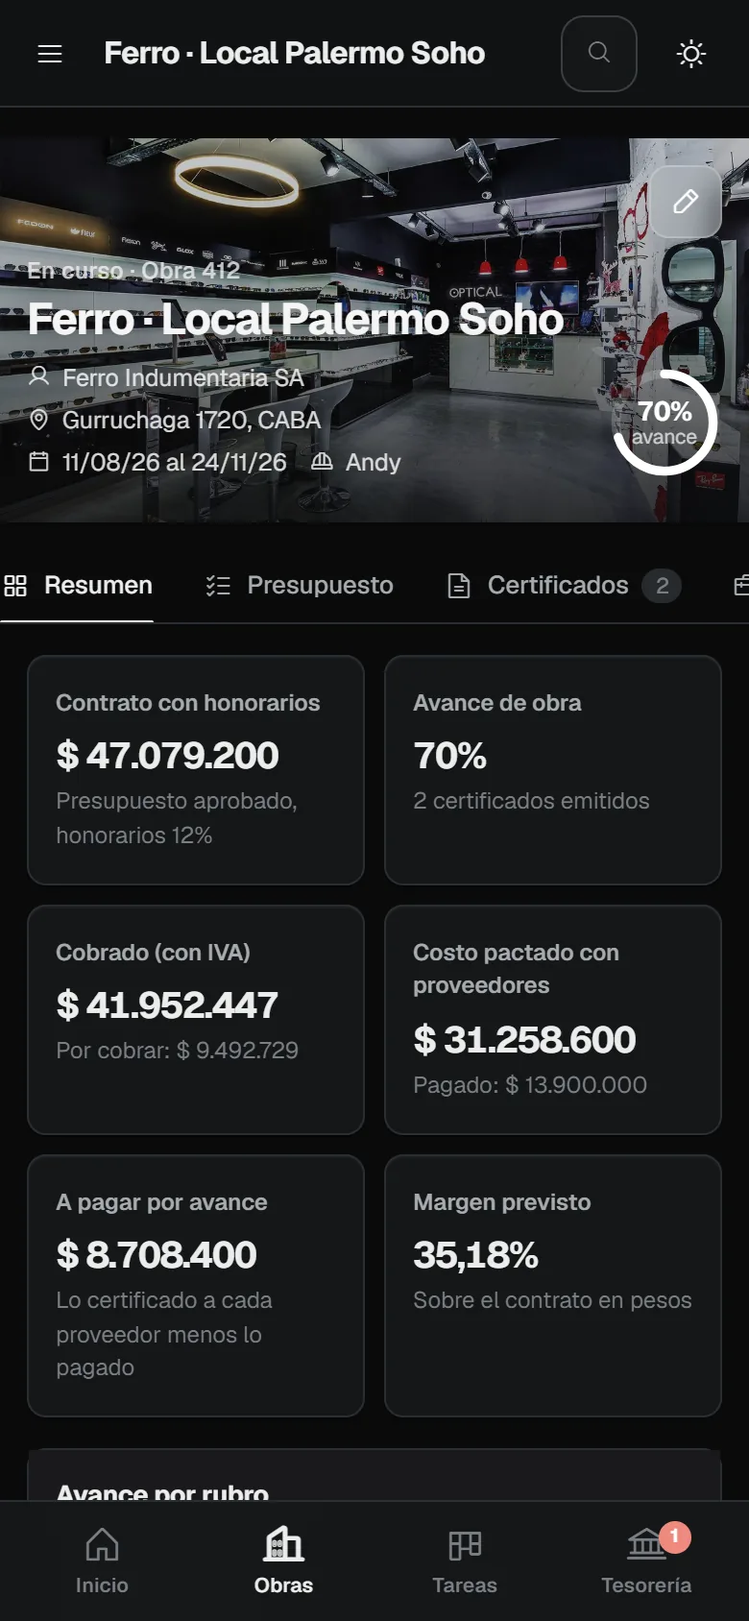
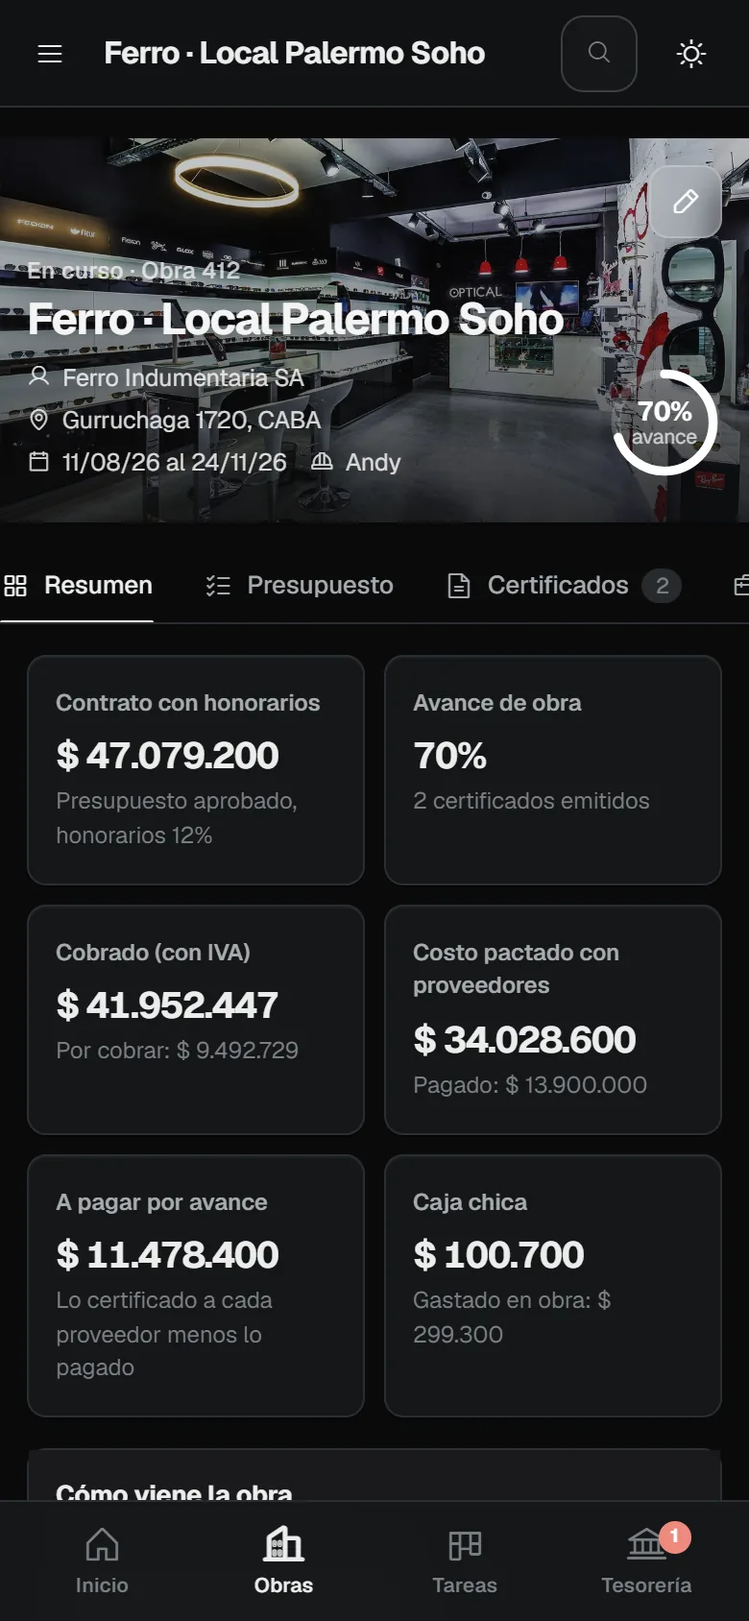
Momo: como viene la obra, ficha y costos por proveedor, y lo que falta definir con el cliente

diff --git a/clientes/momo-arq/sistema-8zco4e/app.js b/clientes/momo-arq/sistema-8zco4e/app.js
@@ -28,14 +28,14 @@
   const esMovil = () => window.matchMedia('(max-width: 640px)').matches;
 
   /* ================= base ================= */
-  const KEY = 'momo-argos-maqueta-v3';
+  const KEY = 'momo-argos-maqueta-v4';
   let DB;
   function normalizar(db) {
     db.config.baseCAC = db.config.baseCAC || '2026-03';
     db.certificados.forEach((c) => { if (!c.estado) c.estado = 'emitido'; c.ed = (c.ed || []).map((e) => Object.assign({ mo: 0, mat: e.precio || 0 }, e)); });
     db.presupuestos.forEach((p) => p.items.forEach((i) => { if (i.iibb == null) i.iibb = 0; if (i.interno == null) i.interno = i.costo ? r2((i.venta / i.costo - 1) * 100) : 0; }));
     ['clientes', 'proveedores'].forEach((k) => db[k].forEach((x) => { if (x.archivado == null) x.archivado = false; }));
-    db.facturasCompra = db.facturasCompra || []; db.notasCredito = db.notasCredito || []; db.arcaRecibidos = db.arcaRecibidos || []; db.padron = db.padron || {}; db.cuentas = db.cuentas || [];
+    db.facturasCompra = db.facturasCompra || []; db.notasCredito = db.notasCredito || []; db.arcaRecibidos = db.arcaRecibidos || []; db.padron = db.padron || {}; db.cuentas = db.cuentas || []; db.costosObra = db.costosObra || []; db.aDefinir = db.aDefinir || [];
     const fe = [];
     db.obras.forEach((o) => { if (o.anticipo && o.anticipo.fecha && o.anticipo.comp && o.anticipo.comp !== 'sin' && !o.anticipo.fe) fe.push({ f: o.anticipo.fecha, l: o.anticipo.comp, set: (x) => { o.anticipo.fe = x; } }); });
     db.certificados.forEach((c) => { if (c.estado === 'emitido' && c.comp && c.comp !== 'sin' && !c.fe) fe.push({ f: c.fecha, l: c.comp, set: (x) => { c.fe = x; } }); });
@@ -347,7 +347,7 @@
       cifras += cifra('Cobrado (con IVA)', esc(doble(r.cobrado)), 'Por cobrar: ' + doble(r.porCobrar)) +
         cifra('Costo pactado con proveedores', esc(doble(r.pactado)), 'Pagado: ' + doble(r.pagado)) +
         cifra('A pagar por avance', esc(doble(r.aPagar)), 'Lo certificado a cada proveedor menos lo pagado');
-      cifras += puede('margen') ? cifra('Margen previsto', pct(r.margen.ARS), 'Sobre el contrato en pesos' + (r.pres.USD.total ? ' · USD ' + pct(r.margen.USD) : '')) : cifra('Caja chica', esc(fmt(r.cajaSaldo)), 'Gastado en obra: ' + fmt(r.caja));
+      cifras += cifra('Caja chica', esc(fmt(r.cajaSaldo)), 'Gastado en obra: ' + fmt(r.caja));
     } else {
       cifras += cifra('Caja chica', esc(fmt(r.cajaSaldo)), 'Gastado en obra: ' + fmt(r.caja));
     }
@@ -364,7 +364,22 @@
     const nTareas = DB.tareas.filter((t) => t.obra === o.id && t.col !== 'hecha').length;
     if (nTareas) pasos.push(['kanban', nTareas + (nTareas === 1 ? ' tarea abierta' : ' tareas abiertas') + ' de esta obra', '#/tareas', o.id]);
     const pasosHtml = pasos.length ? '<ul class="alertas">' + pasos.map((x) => '<li><span class="ic">' + ic(x[0]) + '</span><div class="t">' + esc(x[1]) + '</div><a class="btn sm" href="' + x[2] + '"' + (x[3] ? ' data-accion="tareas-obra" data-obra="' + x[3] + '"' : '') + '>Ir</a></li>').join('') + '</ul>' : vacio('check-circle', 'Obra al día.');
-    return '<div class="resumen-grid">' + cifras + '</div><div class="grilla-2"><div class="card"><div class="card-h"><h2>Avance por rubro</h2><span class="sub">Ponderado por el precio de cada ítem</span></div><div class="sp"></div>' + rubHtml + '</div><div class="pila"><div class="card"><div class="card-h"><h2>Próximos pasos</h2></div><div class="card-b">' + pasosHtml + '</div></div><div class="card"><div class="card-h"><h2>Actividad de la obra</h2></div><div class="card-b">' + (act ? '<ul class="actividad">' + act + '</ul>' : vacio('clock', 'Sin actividad todavía.')) + '</div></div></div></div>';
+    return '<div class="resumen-grid">' + cifras + '</div>' + cardBalance(o) + '<div class="grilla-2"><div class="card"><div class="card-h"><h2>Avance por rubro</h2><span class="sub">Ponderado por el precio de cada ítem</span></div><div class="sp"></div>' + rubHtml + '</div><div class="pila"><div class="card"><div class="card-h"><h2>Próximos pasos</h2></div><div class="card-b">' + pasosHtml + '</div></div><div class="card"><div class="card-h"><h2>Actividad de la obra</h2></div><div class="card-b">' + (act ? '<ul class="actividad">' + act + '</ul>' : vacio('clock', 'Sin actividad todavía.')) + '</div></div></div></div>';
+  }
+
+  /* lo que en la planilla hay que cruzar a mano: lo previsto contra lo que pasó */
+  function cardBalance(o) {
+    if (!puede('margen')) return '';
+    const b = M.balance(o.id, puede('sin')); if (!b) return '';
+    const dif = (x) => { const r = Math.round(x); return r === 0 ? '<span class="tenue">Igual</span>' : (r > 0 ? '+' : '-') + fmt(Math.abs(r)); };
+    const fila = (t, s, p, h, fuerte) => '<tr' + (fuerte ? ' class="fila-total"' : '') + '><td><b>' + esc(t) + '</b><span class="sec">' + esc(s) + '</span></td><td class="num">' + fmt(p) + '</td><td class="num"><b>' + fmt(h) + '</b></td><td class="num">' + dif(h - p) + '</td></tr>';
+    const ind = (l, v, s) => '<div class="bal-dato"><span>' + esc(l) + '</span><b>' + esc(v) + '</b><small>' + esc(s) + '</small></div>';
+    return '<div class="card balance"><div class="card-h"><h2>Cómo viene la obra</h2><span class="sub">Solo socios. Lo previsto al aprobar contra lo que pasó hasta hoy, en pesos</span></div>' +
+      '<div class="tabla-wrap"><table><thead><tr><th>Concepto</th><th class="num">Previsto</th><th class="num">Hoy</th><th class="num">Diferencia</th></tr></thead><tbody>' +
+      fila('Lo que se le cobra al cliente', 'Contrato con honorarios, más demasías, economías y ajuste CAC', b.ventaPrev, b.ventaHoy) +
+      fila('Lo que cuesta la obra', 'Presupuesto, más demasías, costos sumados y caja chica', b.costoPrev, b.costoHoy) +
+      fila('Lo que le queda a Momo', 'Sin IVA ni gastos del estudio', b.ganPrev, b.ganHoy, true) + '</tbody></table></div>' +
+      '<div class="bal-datos">' + ind('Plata de la obra en mano', fmt(b.enMano), b.enMano >= 0 ? 'Cobrado menos pagado, con IVA' : 'Momo está poniendo plata en esta obra') + ind('Ganancia en demasías', fmt(b.ganED), 'Precio menos costo de cada una') + ind('Costos sumados en obra', fmt(b.extra + b.caja), 'Fuera del presupuesto, con caja chica') + ind('A definir con el cliente', fmt(b.aDefinir), 'Estimado, todavía sin precio') + '</div></div>';
   }
 
   /* ---------- presupuesto ---------- */
@@ -416,7 +431,26 @@
       (sel.estado === 'borrador' && puede('aprobar') ? '<button class="btn primary" data-accion="aprobar-pres" data-id="' + sel.id + '">' + ic('seal-check') + 'Aprobar presupuesto</button>' : '') +
       (sel.estado === 'aprobado' && puede('aprobar') && !M.presBorrador(o.id) ? '<button class="btn" data-accion="nueva-version" data-id="' + sel.id + '">' + ic('copy') + 'Nueva versión</button>' : '') +
       '</div></div>';
-    return aviso + acciones + t.tabla + '<div class="sp"></div>' + t.totales;
+    return aviso + acciones + t.tabla + '<div class="sp"></div>' + t.totales + bloqueADefinir(o);
+  }
+  /* los rubros "EN DEMASIAS" de la planilla: se sabe que van, falta el precio */
+  function bloqueADefinir(o) {
+    const lista = M.aDefinirDe(o.id); const verCosto = puede('costos');
+    if (!lista.length && !puede('editarPres')) return '';
+    const filas = lista.map((a) => { const c = M.aDefinirCert(a.id); return '<tr><td class="wrap"><b>' + esc(a.desc) + '</b><span class="sec">' + esc(M.rubro(a.rubro).nombre) + '</span></td>' + (verCosto ? '<td>' + esc((M.prov(a.prov) || {}).razon || 'Sin asignar') + '</td><td class="num">' + fmt(a.estimado, a.mon) + '</td>' : '') + '<td>' + (c ? badge('Cobrado en certificado N° ' + c.num, 'b-ok') : badge('A definir', 'b-warn')) + '</td></tr>'; }).join('');
+    return '<div class="sp"></div><div class="seccion-h"><h2>A definir con el cliente</h2>' + (puede('editarPres') ? '<button class="btn sm" data-accion="nuevo-adefinir" data-obra="' + o.id + '">' + ic('plus') + 'Agregar</button>' : '') + '</div><p class="tenue">Lo que se sabe que va a estar pero todavía no tiene precio. No entra al contrato ni al margen. Cuando el cliente elige, se pasa a demasía desde el certificado.</p>' +
+      (filas ? '<div class="tabla-wrap"><table><thead><tr><th>Qué falta definir</th>' + (verCosto ? '<th>Proveedor</th><th class="num">Costo estimado</th>' : '') + '<th>Estado</th></tr></thead><tbody>' + filas + '</tbody></table></div>' : '');
+  }
+  function modalADefinir(obraId) {
+    const provs = DB.proveedores.filter((p) => !p.archivado).map((p) => [p.id, p.razon]);
+    abrirModal(cabModal('Agregar a definir') + '<div class="m-b"><div class="campo"><label for="ad-desc">Qué falta definir</label><input class="input" id="ad-desc" placeholder="Ej.: luminarias, griferías, mobiliario"></div><div class="fila-2"><div class="campo"><label for="ad-rubro">Rubro</label><select class="input" id="ad-rubro">' + opciones(DB.rubros.map((r) => [r.id, r.num + '. ' + r.nombre]), '') + '</select></div><div class="campo"><label for="ad-prov">Proveedor posible</label><select class="input" id="ad-prov">' + opciones(provs, '', 'Sin asignar') + '</select></div></div><div class="campo"><label for="ad-est">Costo estimado</label><input class="input der monto" id="ad-est" inputmode="decimal"></div></div><div class="m-f"><button class="btn" data-accion="cerrar-modal">Cancelar</button><button class="btn primary" id="ad-ok">Guardar</button></div>', (m) => {
+      $('#ad-ok', m).addEventListener('click', () => {
+        const err = []; const desc = val(m, '#ad-desc'), est = num(m, '#ad-est');
+        if (!desc) err.push('qué falta definir'); if (!(est > 0)) err.push('costo estimado'); if (!mostrarErrores(m, err)) return;
+        DB.aDefinir.push({ id: nid('ad'), obra: obraId, rubro: val(m, '#ad-rubro'), desc, estimado: est, prov: val(m, '#ad-prov'), mon: 'ARS' });
+        log('Agregó a definir: ' + desc, obraId); guardar(); cerrarModal(); render(); toast('Queda a definir. No suma al contrato.');
+      });
+    });
   }
 
   /* ---------- certificados ---------- */
@@ -501,11 +535,13 @@
   }
   function barraAcum(ant, v) { const t = ant + v; return '<div class="avance"><div class="barra doble" data-w="' + Math.min(100, t) + '" data-w2="' + Math.min(100, ant) + '"></div><span class="p">' + (t > 100.0001 ? '<b class="tenue">' + Math.round(t) + '%</b>' : Math.round(t) + '%') + '</span></div>'; }
   function edHtml(d) {
+    const pend = M.aDefinirDe(d.obra).filter((a) => !M.aDefinirCert(a.id) && !d.ed.some((e) => e.origen === a.id));
+    const pendientes = pend.length ? '<div class="a-definir"><span>A definir con el cliente:</span>' + pend.map((a) => '<button type="button" class="chip" data-accion="pasar-demasia" data-id="' + a.id + '">' + ic('plus') + esc(a.desc) + '</button>').join('') + '</div>' : '';
     const provs = DB.proveedores.filter((p) => !p.archivado).map((p) => [p.id, p.razon]);
     const filas = d.ed.map((e, k) => '<div class="ed-fila" data-ed="' + k + '"><div class="campo"><label>Tipo</label><select class="input" data-edc="tipo">' + opciones([['demasia', 'Demasía'], ['economia', 'Economía']], e.tipo) + '</select></div><div class="campo ed-desc"><label>Descripción</label><input class="input" data-edc="desc" value="' + esc(e.desc) + '" placeholder="Qué se agregó o qué no se hizo"></div><div class="campo"><label>Cant.</label><input class="input der" data-edc="cant" inputmode="decimal" value="' + fmtInput(e.cant) + '"></div><div class="campo"><label>Mano de obra</label><input class="input der" data-edc="mo" inputmode="decimal" value="' + fmtInput(e.mo) + '"></div><div class="campo"><label>Materiales</label><input class="input der" data-edc="mat" inputmode="decimal" value="' + fmtInput(e.mat) + '"></div>' +
       (puede('costos') ? '<div class="campo"><label>Costo Momo</label><input class="input der" data-edc="costo" inputmode="decimal" value="' + fmtInput(e.costo) + '"></div><div class="campo"><label>Proveedor</label><select class="input" data-edc="prov">' + opciones(provs, e.prov, 'Sin proveedor') + '</select></div>' : '<div></div><div></div>') +
       '<button class="btn icon ghost" data-accion="quitar-ed" data-i="' + k + '" aria-label="Quitar renglón">' + ic('x') + '</button><div class="ed-total" data-edtot="' + k + '">Precio unitario al cliente: <b>' + esc(fmt(e.precio, e.mon)) + '</b> · total ' + esc(fmt(e.precio * e.cant, e.mon)) + '</div></div>').join('');
-    return '<div class="card-h"><h2>Demasías y economías del mes</h2><span class="sub">Mano de obra y materiales por separado, como en la planilla. Se cobran completas en este certificado.</span><div class="der"><button class="btn sm" data-accion="agregar-ed">' + ic('plus') + 'Agregar</button></div></div><div class="card-b">' + (filas || '<p class="suave m0">Sin demasías ni economías este mes.</p>') + '</div>';
+    return '<div class="card-h"><h2>Demasías y economías del mes</h2><span class="sub">Mano de obra y materiales por separado, como en la planilla. Se cobran completas en este certificado.</span><div class="der"><button class="btn sm" data-accion="agregar-ed">' + ic('plus') + 'Agregar</button></div></div><div class="card-b">' + pendientes + (filas || '<p class="suave m0">Sin demasías ni economías este mes.</p>') + '</div>';
   }
   function panelCert(d) {
     const o = M.obra(d.obra); const k = M.calcCert(d); const err = M.erroresCert(d);
@@ -552,12 +588,33 @@
   /* ---------- proveedores de la obra ---------- */
   function tProveedores(o) {
     const lista = M.provDeObra(o.id);
-    const filas = lista.map((f) => { const p = M.prov(f.prov); return '<tr><td><b>' + esc(p.razon) + '</b>' + (p.interno ? ' <span class="badge">Propio</span>' : '') + '<span class="sec">' + esc(p.rubros.map((r) => M.rubro(r).nombre).join(', ')) + '</span></td><td class="num">' + doble(f.pactado) + '</td><td class="num">' + doble(f.devengado) + '</td><td class="num">' + (p.interno ? '<span class="tenue">Propio</span>' : (() => { const fa = M.facturadoProv(o.id, f.prov); return fa > f.devengado.ARS + 0.5 && fa > 0 ? '<span class="badge b-warn" title="Facturó más de lo certificado">' + fmt(fa) + '</span>' : fa ? fmt(fa) : '<span class="tenue">Sin facturas</span>'; })()) + '</td><td class="num">' + doble(f.pagado) + '</td><td class="num"><b>' + (f.aPagar.ARS > 0.5 || f.aPagar.USD > 0.5 ? doble({ ARS: Math.max(0, f.aPagar.ARS), USD: Math.max(0, f.aPagar.USD) }) : (f.aPagar.ARS < -0.5 || f.aPagar.USD < -0.5 ? '<span class="badge b-info">Adelantado ' + doble({ ARS: -Math.min(0, f.aPagar.ARS), USD: -Math.min(0, f.aPagar.USD) }) + '</span>' : '<span class="tenue">Al día</span>')) + '</b></td><td class="num">' + doble(f.resta) + '</td><td><button class="btn sm" data-accion="nuevo-pago" data-obra="' + o.id + '" data-prov="' + f.prov + '">' + ic('money') + 'Pagar</button></td></tr>'; }).join('');
+    const filas = lista.map((f) => { const p = M.prov(f.prov); return '<tr class="clic" data-accion="ver-ficha" data-obra="' + o.id + '" data-prov="' + f.prov + '"><td><b>' + esc(p.razon) + '</b>' + (p.interno ? ' <span class="badge">Propio</span>' : '') + '<span class="sec">' + esc(p.rubros.map((r) => M.rubro(r).nombre).join(', ')) + '</span></td><td class="num">' + doble(f.pactado) + '</td><td class="num">' + doble(f.devengado) + '</td><td class="num">' + (p.interno ? '<span class="tenue">Propio</span>' : (() => { const fa = M.facturadoProv(o.id, f.prov); return fa > f.devengado.ARS + 0.5 && fa > 0 ? '<span class="badge b-warn" title="Facturó más de lo certificado">' + fmt(fa) + '</span>' : fa ? fmt(fa) : '<span class="tenue">Sin facturas</span>'; })()) + '</td><td class="num">' + doble(f.pagado) + '</td><td class="num"><b>' + (f.aPagar.ARS > 0.5 || f.aPagar.USD > 0.5 ? doble({ ARS: Math.max(0, f.aPagar.ARS), USD: Math.max(0, f.aPagar.USD) }) : (f.aPagar.ARS < -0.5 || f.aPagar.USD < -0.5 ? '<span class="badge b-info">Adelantado ' + doble({ ARS: -Math.min(0, f.aPagar.ARS), USD: -Math.min(0, f.aPagar.USD) }) + '</span>' : '<span class="tenue">Al día</span>')) + '</b></td><td class="num">' + doble(f.resta) + '</td><td><button class="btn sm" data-accion="nuevo-pago" data-obra="' + o.id + '" data-prov="' + f.prov + '">' + ic('money') + 'Pagar</button></td></tr>'; }).join('');
     const pagos = M.pagosDe(o.id).filter((p) => UI.teso.anulados || !p.anulado).sort((a, b) => b.fecha.localeCompare(a.fecha)).map((p) => filaPago(p, false)).join('');
-    return '<div class="aviso info">' + ic('info') + '<div><b>Cómo se lee:</b> lo pactado sale del presupuesto aprobado (costo de cada ítem asignado). Lo certificado es ese costo por el avance acumulado. A pagar = certificado − pagado. Nada se tipea dos veces.</div></div>' +
+    return '<div class="aviso info">' + ic('info') + '<div><b>Cómo se lee:</b> lo pactado sale del presupuesto aprobado, más las demasías y los costos sumados. A pagar = certificado − pagado. Tocá un proveedor para ver su ficha, renglón por renglón.</div></div>' +
+      '<div class="toolbar"><div class="filtros"></div><div class="acciones"><button class="btn primary" data-accion="sumar-costo" data-obra="' + o.id + '">' + ic('plus') + 'Sumar costo</button></div></div>' +
       '<div class="tabla-wrap"><table><thead><tr><th>Proveedor</th><th class="num">Pactado</th><th class="num">Certificado</th><th class="num">Facturado</th><th class="num">Pagado</th><th class="num">A pagar hoy</th><th class="num">Resta del contrato</th><th></th></tr></thead><tbody>' + (filas || '<tr><td colspan="8">' + vacio('toolbox', 'Asigná proveedores a los ítems del presupuesto.') + '</td></tr>') + '</tbody></table></div>' +
       '<div class="sp"></div><div class="toolbar"><div class="filtros"><b>Pagos de la obra</b></div><div class="acciones"><label class="check"><input type="checkbox" id="f-anulados"' + (UI.teso.anulados ? ' checked' : '') + '>Ver anulados</label></div></div>' +
       (pagos ? '<div class="tabla-wrap"><table><thead><tr><th>Fecha</th><th>Proveedor</th><th>Detalle</th><th>Medio</th><th class="num">Importe</th><th>Cargado por</th><th></th></tr></thead><tbody>' + pagos + '</tbody></table></div>' : '<div class="card">' + vacio('money', 'Sin pagos todavía.') + '</div>');
+  }
+  /* el bloque de la hoja PROVEEDORES: costos y pagos en orden, con el saldo que va quedando */
+  function verFicha(obraId, provId) {
+    const pv = M.prov(provId); const o = M.obra(obraId); const f = M.provDeObra(obraId).find((x) => x.prov === provId);
+    const tabla = (mon) => {
+      const l = M.fichaProv(obraId, provId, mon); if (!l.length) return '';
+      return '<div class="tabla-wrap"><table><thead><tr><th>Fecha</th><th>Detalle</th><th class="num">Costo</th><th class="num">Pago</th><th class="num">Saldo' + (mon === 'USD' ? ' USD' : '') + '</th><th></th></tr></thead><tbody>' + l.map((x) => '<tr><td>' + fFecha(x.fecha) + '</td><td class="wrap">' + esc(x.txt) + (x.sub ? '<span class="sec">' + esc(x.sub) + '</span>' : '') + '</td><td class="num">' + (x.costo ? fmt(x.costo, mon) : '') + '</td><td class="num">' + (x.pago ? fmt(x.pago, mon) : '') + '</td><td class="num"><b>' + fmt(x.saldo, mon) + '</b></td><td>' + (x.costoId ? '<button class="btn sm ghost" data-accion="anular-costo" data-id="' + x.costoId + '">Anular</button>' : '') + '</td></tr>').join('') + '</tbody></table></div>';
+    };
+    abrirDrawer('<div class="d-h"><div><h2>' + esc(pv.razon) + '</h2><div class="sub">' + esc(o.nombre) + '</div></div><div class="der"><button class="btn sm icon ghost" data-accion="cerrar-drawer" aria-label="Cerrar">' + ic('x') + '</button></div></div><div class="d-b"><div class="desglose"><span>Pactado</span><span class="r">' + doble(f.pactado) + '</span><span>Certificado a la fecha</span><span class="r">' + doble(f.devengado) + '</span><span>Pagado</span><span class="r">' + doble(f.pagado) + '</span><span class="sep"></span><span class="total">Resta del contrato</span><span class="r total">' + doble(f.resta) + '</span></div>' + tabla('ARS') + tabla('USD') + '</div>');
+  }
+  function modalCosto(obraId) {
+    const provs = DB.proveedores.filter((p) => !p.archivado).map((p) => [p.id, p.razon]);
+    abrirModal(cabModal('Sumar costo') + '<div class="m-b"><p class="suave">Para lo que no estaba en un ítem del presupuesto: un arreglo con un contratista, una compra de materiales para varios rubros.</p><div class="fila-2"><div class="campo"><label for="cs-prov">Proveedor</label><select class="input" id="cs-prov">' + opciones(provs, '', 'Elegí') + '</select></div><div class="campo"><label for="cs-fecha">Fecha</label><input class="input" type="date" id="cs-fecha" value="' + hoy() + '"></div></div><div class="campo"><label for="cs-desc">Qué es</label><input class="input" id="cs-desc" placeholder="Ej.: arreglos en subsuelo"></div><div class="fila-2"><div class="campo"><label for="cs-imp">Importe</label><input class="input der monto" id="cs-imp" inputmode="decimal"></div><div class="campo"><label for="cs-mon">Moneda</label><select class="input" id="cs-mon">' + opciones([['ARS', 'Pesos'], ['USD', 'Dólares']], 'ARS') + '</select></div></div><div class="campo"><label for="cs-obs">Detalle (lo que antes iba en el comentario de la celda)</label><textarea class="input" id="cs-obs" rows="2" placeholder="Ej.: carpeta $ 170.000, demolición $ 220.000"></textarea></div></div><div class="m-f"><button class="btn" data-accion="cerrar-modal">Cancelar</button><button class="btn primary" id="cs-ok">Sumar costo</button></div>', (m) => {
+      $('#cs-ok', m).addEventListener('click', () => {
+        const err = []; const prov = val(m, '#cs-prov'), desc = val(m, '#cs-desc'), importe = num(m, '#cs-imp');
+        if (!prov) err.push('proveedor'); if (!desc) err.push('qué es'); if (!(importe > 0)) err.push('importe'); if (!mostrarErrores(m, err)) return;
+        DB.costosObra.push({ id: nid('cs'), obra: obraId, prov, fecha: val(m, '#cs-fecha'), desc, importe, mon: val(m, '#cs-mon'), obs: val(m, '#cs-obs'), creado: creado() });
+        log('Sumó ' + fmt(importe, val(m, '#cs-mon')) + ' a ' + M.prov(prov).razon + ': ' + desc, obraId); guardar(); cerrarModal(); render(); toast('Costo sumado al proveedor y a la obra.');
+      });
+    });
   }
   const medioTxt = (x) => { const ch = x.cheque ? M.cheque(x.cheque) : null; const b = { transferencia: 'Transferencia', efectivo: 'Efectivo', cheque: 'Cheque', echeq: 'E-cheq', 'cheque-propio': 'Cheque propio', 'cheque-tercero': 'Endoso de cheque' }[x.medio] || x.medio; return b + (ch ? ' ' + ch.banco + ' N° ' + ch.numero + (ch.estado === 'rechazado' ? ' (rechazado)' : '') : x.banco ? ' ' + x.banco : ''); };
   function filaPago(p, conObra) {
@@ -1226,6 +1283,7 @@
         }
         case 'ver-completos': UI.verCompletos = !UI.verCompletos; render(); return;
         case 'agregar-ed': UI.certDraft.ed.push({ id: nid('ed'), tipo: 'demasia', desc: '', cant: 1, mo: 0, mat: 0, precio: 0, costo: 0, prov: '', mon: 'ARS' }); setHTML($('#ce-ed'), edHtml(UI.certDraft)); refrescarCert(); return;
+        case 'pasar-demasia': { const a = DB.aDefinir.find((x) => x.id === id); UI.certDraft.ed.push({ id: nid('ed'), tipo: 'demasia', desc: a.desc, cant: 1, mo: 0, mat: 0, precio: 0, costo: a.estimado, prov: a.prov, mon: a.mon, origen: a.id }); setHTML($('#ce-ed'), edHtml(UI.certDraft)); refrescarCert(); toast('Pasó a demasías. Falta poner el precio al cliente.', 'pencil-simple'); return; }
         case 'quitar-ed': UI.certDraft.ed.splice(Number(ac.dataset.i), 1); setHTML($('#ce-ed'), edHtml(UI.certDraft)); refrescarCert(); return;
         case 'guardar-cert': { const c = persistirCert('borrador'); location.hash = '#/obra/' + c.obra + '/certificados'; toast('Borrador guardado. ' + (puede('emitir') ? 'Emitilo cuando esté revisado.' : 'Lo revisa y emite Administración.')); return; }
         case 'emitir-cert': {
@@ -1257,6 +1315,10 @@
         }
         case 'nueva-caja': modalCaja(ac.dataset.obra, ac.dataset.tipo); return;
         case 'anular-caja': { const c = DB.caja.find((x) => x.id === id); confirmar('Anular movimiento', 'Deja de contar en el saldo y en el costo de la obra.', 'Anular', () => { c.anulado = creado(); log('Anuló un movimiento de caja chica: ' + c.desc, c.obra); guardar(); render(); }, true); return; }
+        case 'nuevo-adefinir': modalADefinir(ac.dataset.obra); return;
+        case 'sumar-costo': modalCosto(ac.dataset.obra); return;
+        case 'ver-ficha': verFicha(ac.dataset.obra, ac.dataset.prov); return;
+        case 'anular-costo': { const c = DB.costosObra.find((x) => x.id === id); confirmar('Anular este costo', c.desc + ' por ' + fmt(c.importe, c.mon) + '. Deja de sumar al proveedor y a la obra, y queda registrado.', 'Anular', () => { c.anulado = true; log('Anuló el costo "' + c.desc + '"', c.obra); guardar(); cerrarDrawer(); render(); toast('Costo anulado.'); }, true); return; }
         case 'nueva-tarea': modalTarea(null, ac.dataset.obra); return;
         case 'tareas-obra': UI.tareas.obra = ac.dataset.obra; UI.tareas.vista = 'todas'; return;
         case 'editar-tarea': modalTarea(id); return;

diff --git a/clientes/momo-arq/sistema-8zco4e/motor.js b/clientes/momo-arq/sistema-8zco4e/motor.js
@@ -140,6 +140,19 @@
     /* ---------- proveedores de la obra ---------- */
     pagoVale: (p) => p.anulado ? 0 : Number(p.importe) || 0,
     pagosDe: (obraId, provId) => DB.pagos.filter((p) => p.obra === obraId && (!provId || p.prov === provId)),
+    costosDe: (obraId, provId) => DB.costosObra.filter((c) => c.obra === obraId && !c.anulado && (!provId || c.prov === provId)),
+    /* el bloque del proveedor en la planilla: lo pactado y lo pagado, renglón por renglón, con su saldo */
+    fichaProv(obraId, provId, mon) {
+      const p = M.presAprobado(obraId); const filas = [];
+      const items = (p ? p.items : []).filter((i) => i.prov === provId && i.mon === mon);
+      if (items.length) filas.push({ fecha: p.aprobado.ts.slice(0, 10), txt: 'Presupuesto aprobado', sub: items.length + (items.length === 1 ? ' ítem' : ' ítems'), costo: r2(items.reduce((s, i) => s + i.cant * i.costo, 0)), pago: 0 });
+      M.certsDe(obraId).forEach((c) => (c.ed || []).filter((e) => e.prov === provId && e.costo && e.mon === mon).forEach((e) => filas.push({ fecha: c.fecha, txt: (e.tipo === 'demasia' ? 'Demasía: ' : 'Economía: ') + e.desc, sub: 'Certificado N° ' + c.num, costo: r2(e.cant * e.costo) * (e.tipo === 'demasia' ? 1 : -1), pago: 0 })));
+      M.costosDe(obraId, provId).filter((c) => c.mon === mon).forEach((c) => filas.push({ fecha: c.fecha, txt: c.desc, sub: c.obs || '', costo: c.importe, pago: 0, costoId: c.id }));
+      M.pagosDe(obraId, provId).filter((x) => x.mon === mon && !x.anulado).forEach((x) => filas.push({ fecha: x.fecha, txt: 'Pago', sub: x.detalle || '', costo: 0, pago: x.importe }));
+      filas.sort((a, b) => a.fecha.localeCompare(b.fecha)); let s = 0;
+      filas.forEach((f) => { s = r2(s + f.costo - f.pago); f.saldo = s; });
+      return filas;
+    },
     provDeObra(obraId) {
       const p = M.presAprobado(obraId); const map = {};
       const fila = (id) => map[id] || (map[id] = { prov: id, pactado: cero(), devengado: cero(), pagado: cero(), items: 0 });
@@ -152,6 +165,7 @@
         if (!e.prov || !e.costo) return; const f = fila(e.prov); const n = r2(e.cant * e.costo) * (e.tipo === 'demasia' ? 1 : -1);
         f.pactado[e.mon] = r2(f.pactado[e.mon] + n); f.devengado[e.mon] = r2(f.devengado[e.mon] + n);
       }));
+      M.costosDe(obraId).forEach((c) => { const f = fila(c.prov); f.pactado[c.mon] = r2(f.pactado[c.mon] + c.importe); f.devengado[c.mon] = r2(f.devengado[c.mon] + c.importe); });
       M.pagosDe(obraId).forEach((pg) => { const f = fila(pg.prov); f.pagado[pg.mon] = r2(f.pagado[pg.mon] + M.pagoVale(pg)); });
       return Object.values(map).map((f) => {
         f.aPagar = cero(); f.resta = cero();
@@ -181,6 +195,26 @@
         pres: t, aprobado: !!ap, avance: pesoTot ? r2(pesoHecho / pesoTot * 100) : 0, certificado,
         cobrado: M.cobradoObra(obraId, verSin), porCobrar: M.porCobrar(obraId, verSin),
         pactado, pagado, aPagar, caja, cajaSaldo: M.cajaSaldo(obraId), margen
+      };
+    },
+    aDefinirDe: (obraId) => DB.aDefinir.filter((a) => a.obra === obraId),
+    /* el certificado donde ya se cobró algo que estaba a definir */
+    aDefinirCert: (id) => DB.certificados.find((c) => c.estado === 'emitido' && (c.ed || []).some((e) => e.origen === id)),
+    /* cómo viene la obra: lo previsto al aprobar contra lo que pasó hasta hoy, en pesos */
+    balance(obraId, verSin) {
+      const p = M.presAprobado(obraId); if (!p) return null;
+      const t = M.totPres(p).ARS; let ajustes = 0, costoED = 0, ganED = 0;
+      M.certsDe(obraId).forEach((c) => {
+        const k = M.calcCert(c).mon.ARS; ajustes += k.dem - k.eco + k.honED + k.cac;
+        (c.ed || []).filter((e) => e.mon === 'ARS').forEach((e) => { const s = e.tipo === 'demasia' ? 1 : -1; costoED += s * e.cant * e.costo; ganED += s * e.cant * (e.precio - e.costo); });
+      });
+      const extra = M.costosDe(obraId).filter((c) => c.mon === 'ARS').reduce((s, c) => s + c.importe, 0);
+      const caja = M.cajaGastado(obraId); const r = M.resumen(obraId, verSin);
+      const ventaHoy = r2(t.total + ajustes), costoHoy = r2(t.costo + costoED + extra + caja);
+      return {
+        ventaPrev: t.total, costoPrev: t.costo, ganPrev: r2(t.total - t.costo), ventaHoy, costoHoy, ganHoy: r2(ventaHoy - costoHoy),
+        extra: r2(extra), caja, ganED: r2(ganED), enMano: r2(r.cobrado.ARS - r.pagado.ARS - caja),
+        aDefinir: r2(M.aDefinirDe(obraId).filter((a) => a.mon === 'ARS' && !M.aDefinirCert(a.id)).reduce((s, a) => s + a.estimado, 0))
       };
     },
     avanceRubros(obraId) {
@@ -223,7 +257,7 @@
       return v === Number(d[10]);
     },
     usosCliente: (id) => DB.obras.filter((o) => o.cliente === id).length,
-    usosProveedor(id) { return DB.presupuestos.reduce((s, p) => s + p.items.filter((i) => i.prov === id).length, 0) + DB.pagos.filter((p) => p.prov === id).length; }
+    usosProveedor(id) { return DB.costosObra.filter((c) => c.prov === id).length + DB.presupuestos.reduce((s, p) => s + p.items.filter((i) => i.prov === id).length, 0) + DB.pagos.filter((p) => p.prov === id).length; }
   };
 
 

diff --git a/clientes/momo-arq/propuesta-r7k2wd/index.html b/clientes/momo-arq/propuesta-r7k2wd/index.html
@@ -613,8 +613,8 @@ footer{padding:64px 0 56px;border-top:1px solid var(--border)}
     <div class="modulos">
       <div class="mod rev"><i class="ph ph-buildings ic"></i><h3>Obras y presupuestos</h3><p class="para">Un presupuesto que sirve para cotizar y para ejecutar.</p><ul><li>Plantilla de 17 rubros editable.</li><li>Costo, venta, % interno e IIBB.</li><li>Versiones, aprobado como contrato.</li><li>PDF con o sin importes y planilla de costos.</li></ul></div>
       <div class="mod rev" style="--d:.04s"><i class="ph ph-file-text ic"></i><h3>Certificados</h3><p class="para">Fin de mes en minutos, sin copiar hojas.</p><ul><li>Avance por ítem con acumulado.</li><li>Honorarios sobre venta y demasías.</li><li>Anticipo descontado en cada uno.</li><li>Liquidación en PDF.</li></ul></div>
-      <div class="mod rev" style="--d:.08s"><i class="ph ph-trend-up ic"></i><h3>Demasías, economías y CAC</h3><p class="para">Los ajustes que hoy se calculan aparte, dentro del certificado.</p><ul><li>Mano de obra y materiales por separado.</li><li>Índices cargados una vez por mes.</li><li>Split y base por obra.</li><li>Sin índice, no deja emitir.</li></ul></div>
-      <div class="mod rev" style="--d:.12s"><i class="ph ph-hard-hat ic"></i><h3>Proveedores de la obra</h3><p class="para">Cuánto se le debe a cada uno, sin sumar a mano.</p><ul><li>Lo pactado sale del presupuesto.</li><li>Pagos en pesos, dólares o cheque.</li><li>Aviso si se paga de más o repetido.</li><li>Recibo de cada pago.</li></ul></div>
+      <div class="mod rev" style="--d:.08s"><i class="ph ph-trend-up ic"></i><h3>Demasías, economías y CAC</h3><p class="para">Los ajustes que hoy se calculan aparte, dentro del certificado.</p><ul><li>Mano de obra y materiales por separado.</li><li>Índices cargados una vez por mes.</li><li>Lo que falta definir, listo para cobrar.</li><li>Sin índice, no deja emitir.</li></ul></div>
+      <div class="mod rev" style="--d:.12s"><i class="ph ph-hard-hat ic"></i><h3>Proveedores de la obra</h3><p class="para">Cuánto se le debe a cada uno, sin sumar a mano.</p><ul><li>Presupuesto más arreglos sumados en obra.</li><li>Pagos en pesos, dólares o cheque.</li><li>Aviso si se paga de más o repetido.</li><li>Ficha con costos, pagos, saldo y recibos.</li></ul></div>
       <div class="mod rev"><i class="ph ph-user-circle ic"></i><h3>Cuenta del cliente</h3><p class="para">Qué debe cada cliente, siempre al día.</p><ul><li>Cargos con y sin factura.</li><li>Cobros aplicados a lo más viejo.</li><li>Saldo siempre calculado.</li><li>Pesos y dólares sin mezclar.</li></ul></div>
       <div class="mod rev" style="--d:.04s"><i class="ph ph-receipt ic"></i><h3>Facturación ARCA</h3><p class="para">La factura sale del certificado, sin cargarla dos veces.</p><ul><li>Factura A o B según el cliente.</li><li>CAE automático al emitir.</li><li>Nota de crédito al anular.</li><li>PDF con el QR de ARCA.</li></ul></div>
       <div class="mod rev" style="--d:.08s"><i class="ph ph-cloud-arrow-down ic"></i><h3>Compras e IVA</h3><p class="para">El IVA del mes listo para el estudio contable.</p><ul><li>Facturas de proveedores desde ARCA.</li><li>Sin duplicados.</li><li>IVA de cada mes, débito y crédito.</li><li>Libro de IVA Digital y Excel.</li></ul></div>
@@ -636,7 +636,7 @@ footer{padding:64px 0 56px;border-top:1px solid var(--border)}
       <div class="mej"><i class="ph ph-equals"></i><h3>Un solo número</h3><p>La obra, la cuenta del cliente y la tesorería dicen lo mismo.</p></div>
       <div class="mej"><i class="ph ph-timer"></i><h3>Certificar en minutos</h3><p>Un porcentaje por ítem y la liquidación sale sola.</p></div>
       <div class="mej"><i class="ph ph-bell-ringing"></i><h3>Avisos del día</h3><p>Cheques, cobros, el índice CAC y las tareas vencidas.</p></div>
-      <div class="mej"><i class="ph ph-warning-circle"></i><h3>Nada a medias</h3><p>Antes de guardar, el sistema avisa qué falta.</p></div>
+      <div class="mej"><i class="ph ph-scales"></i><h3>Cuánto queda en cada obra</h3><p>Lo previsto contra lo real, con cada carga.</p></div>
       <div class="mej"><i class="ph ph-archive"></i><h3>Limpiar sin perder</h3><p>Archivar lo viejo sin tocar su historia.</p></div>
       <div class="mej"><i class="ph ph-cloud-arrow-down"></i><h3>Facturas sin tipear</h3><p>Las de proveedores llegan desde ARCA.</p></div>
       <div class="mej"><i class="ph ph-magnifying-glass"></i><h3>Todo se encuentra</h3><p>Con Ctrl K: obra, cliente, proveedor o CUIT.</p></div>

diff --git a/clientes/momo-arq/sistema-8zco4e/data.js b/clientes/momo-arq/sistema-8zco4e/data.js
@@ -267,6 +267,18 @@
       { id: 'efectivo', nombre: 'Efectivo', tipo: 'caja', numero: 'Caja fuerte del estudio', inicial: 9300000 }
     ];
 
+    /* costos que el proveedor suma durante la obra y no estaban en un ítem del presupuesto (cada renglón del bloque de la planilla) */
+    const costosObra = [
+      { id: 'cs1', obra: 'o1', prov: 'p9', fecha: dia(-30), desc: 'Materiales de obra, primera compra', importe: 2150000, mon: 'ARS', obs: 'Placas, perfiles, masilla, cemento y arena. Se reparte entre albañilería y durlock.', creado: { por: 'u4', ts: ts(-30) } },
+      { id: 'cs2', obra: 'o1', prov: 'p1', fecha: dia(-17), desc: 'Arreglos en subsuelo', importe: 620000, mon: 'ARS', obs: 'Recuadro de columna $ 180.000. Relleno de canaletas $ 240.000. Alquiler de puntales $ 200.000.', creado: { por: 'u1', ts: ts(-17) } }
+    ];
+    /* cosas que se sabe que van a estar pero todavía no tienen precio: no entran al contrato y se cobran como demasía cuando el cliente elige (los rubros "EN DEMASIAS" de la planilla) */
+    const aDefinir = [
+      { id: 'ad1', obra: 'o1', rubro: 'r14', desc: 'Luminarias del salón de ventas', estimado: 2400000, prov: 'p4', mon: 'ARS' },
+      { id: 'ad2', obra: 'o1', rubro: 'r13', desc: 'Griferías y sanitarios del baño de personal', estimado: 1100000, prov: 'p8', mon: 'ARS' },
+      { id: 'ad3', obra: 'o1', rubro: 'r07', desc: 'Exhibidores de vidriera', estimado: 1900000, prov: 'p5', mon: 'ARS' }
+    ];
+
     return {
       version: 1,
       contadores: { obra: 418, id: 1000 },
@@ -275,7 +287,7 @@
       bancos: ['Banco Galicia', 'Banco Santander', 'Banco Macro', 'Banco Nación', 'Banco Provincia', 'BBVA', 'Banco Credicoop', 'Banco Patagonia', 'Banco Supervielle', 'Banco ICBC'],
       equipo, clientes, proveedores, obras, presupuestos, certificados, indicesCAC,
       cobros, pagos, cheques, caja, gastos, tareas, documentos, auditoria,
-      facturasCompra, arcaRecibidos, padron, cuentas, notasCredito: []
+      facturasCompra, arcaRecibidos, padron, cuentas, notasCredito: [], costosObra, aDefinir
     };
   };
 })();

diff --git a/clientes/momo-arq/sistema-8zco4e/styles.css b/clientes/momo-arq/sistema-8zco4e/styles.css
@@ -1105,3 +1105,16 @@ td .sec{font-size:11.5px}
   .topbar{background:var(--surface)}
   :root[data-theme="dark"] .topbar{background:#101113}
 }
+
+/* cómo viene la obra y a definir */
+.balance{margin-bottom:16px}
+.balance .tabla-wrap{border:0;border-radius:0;box-shadow:none}
+.fila-total td{background:var(--surface-2)}
+.bal-datos{display:grid;grid-template-columns:repeat(4,minmax(0,1fr));border-top:1px solid var(--line)}
+.bal-dato{display:flex;flex-direction:column;gap:2px;padding:13px var(--gx);min-width:0}
+.bal-dato + .bal-dato{border-left:1px solid var(--line)}
+.bal-dato span{font-size:12px;color:var(--ink-soft)}
+.bal-dato b{font-size:16px;font-weight:620;font-variant-numeric:tabular-nums;letter-spacing:-.01em}
+.bal-dato small{font-size:11.5px;color:var(--ink-faint)}
+.a-definir{display:flex;flex-wrap:wrap;align-items:center;gap:6px;margin-bottom:12px;font-size:12.5px;color:var(--ink-soft)}
+@media (max-width:900px){.bal-datos{grid-template-columns:repeat(2,minmax(0,1fr))}.bal-dato:nth-child(3){border-left:0}.bal-dato:nth-child(n+3){border-top:1px solid var(--line)}}
